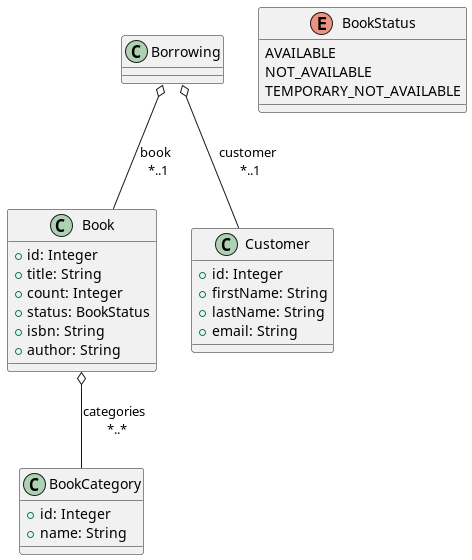
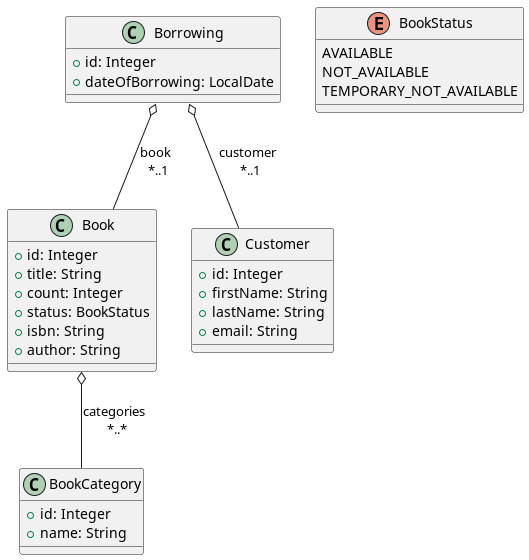
added - date of borrowing

diff --git a/specification/openapi.md b/specification/openapi.md
@@ -681,6 +681,11 @@ components:
           $ref: '#/components/schemas/BookDto'
         customer:
           $ref: '#/components/schemas/CustomerDto'
+        dateOfBorrowing:
+          type: string
+          format: date
+          example: 2017-07-21
+
     BorrowingsDto:
       properties:
         borrowings:
